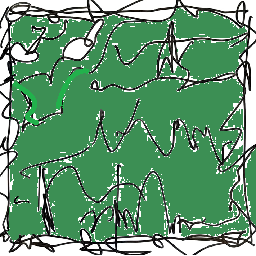
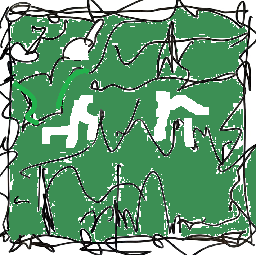
Dev20240711_RSV_setup_stage_2

Changed region(s): [[0.5938, 0.3438, 0.8125, 0.5938], [0.1562, 0.3438, 0.4062, 0.5938], [0.2812, 0.1562, 0.3438, 0.25]]

diff --git a/differenceEngine/resembleStarValley/renderStuff.py b/differenceEngine/resembleStarValley/renderStuff.py
@@ -1,0 +1,145 @@
+import pyglet
+from pyglet.gl import GL_ONE_MINUS_SRC_ALPHA, GL_SRC_ALPHA
+import entiti
+import os
+
+artAssetsFolder = "artAssets/"
+
+
+class assetsManager(entiti.entiti):
+    def __init__(self, **karg) -> None:
+        super().__init__(**karg)
+        filenames: list[str] = os.listdir(self.folder)
+        for itm in filenames:
+            print(itm.split(".")[0])
+            setattr(
+                self,
+                itm.split(".")[0],
+                pyglet.resource.image("artAssets/" + itm),
+            )
+
+
+mainAssets = assetsManager(folder=artAssetsFolder)
+
+
+class blobWindow(pyglet.window.Window):
+    def __init__(
+        self, tileSize: int = 256, name: str = "default_blobWindow", *args, **kwargs
+    ):
+        super().__init__(*args, **kwargs)
+        self.tileSize = tileSize
+        self.name: str = name
+        self.anchor: pyglet.math.Vec3 = pyglet.math.Vec3(0, 0, 0)
+        self.anchorVelocity: pyglet.math.Vec3 = pyglet.math.Vec3(0, 0, 0)
+        self.set_icon(mainAssets.RSV_GRASS_YELLO_PIX)
+        self.set_vsync(True)
+        pyglet.clock.schedule_interval(
+            self.update, 1 / 60
+        )  # set the update function to be called 60times/second
+        pyglet.gl.glClearColor(0.35, 0.4, 0.65, 0.5)  # set window clear color
+        self.fpsDisplay: pyglet.window.FPSDisplay = pyglet.window.FPSDisplay(
+            window=self,
+            color=(0, 0, 0, 128),
+        )  # set a fpsdisplay
+        n = 2
+        self.view = self.view.translate(
+            (-self.width * (n - 1) / 2, -self.height * (n - 1) / 2, 0)
+        )
+        self.view = self.view.scale((n, n, 1))
+        # self.view = self.view.translate((+self.width / 2, +self.height / 2, 0))
+        self.blob: entiti.blob = entiti.blob(self.name, size=(20, 30))
+        self.spriteDict: dict[str, pyglet.sprite.Sprite] = {}
+        self.tilemapBatch: pyglet.graphics.Batch = pyglet.graphics.Batch()
+        self.tileSize *= 1
+        for k, v in self.blob.tileMap.items():
+            pos: tuple[int, int] = k.split("_")[-1]
+            self.spriteDict["sprite_" + pos] = pyglet.sprite.Sprite(
+                img=getattr(mainAssets, v.tiletype), batch=self.tilemapBatch
+            )
+            self.spriteDict["sprite_" + pos].position = tuple(
+                pyglet.math.Vec3(
+                    v.position[0] * self.tileSize,
+                    v.position[1] * self.tileSize,
+                    v.position[2] * self.tileSize,
+                )
+                + self.anchor
+            )
+
+    def update(self, dt: float) -> None:
+        self.anchor += self.anchorVelocity * dt
+        for sprite in self.spriteDict.values():
+            position: pyglet.math.Vec3 = pyglet.math.Vec3(*sprite.position)
+            # print(position + (self.anchorVelocity * dt))
+            sprite.position = tuple(position + (self.anchorVelocity * dt))
+
+    def on_draw(self) -> None:
+        self.clear()
+        pyglet.gl.glEnable(pyglet.gl.GL_DEPTH_TEST)
+        # pyglet.gl.glEnable(pyglet.gl.GL_TEXTURE_2D)
+        pyglet.gl.glTexParameteri(
+            pyglet.gl.GL_TEXTURE_2D,
+            pyglet.gl.GL_TEXTURE_MAG_FILTER,
+            pyglet.gl.GL_NEAREST,
+        )
+        pyglet.gl.glTexParameteri(
+            pyglet.gl.GL_TEXTURE_2D,
+            pyglet.gl.GL_TEXTURE_MIN_FILTER,
+            pyglet.gl.GL_NEAREST,
+        )
+        self.tilemapBatch.draw()
+        self.fpsDisplay.draw()
+
+    def on_key_press(self, symbol, modifiers):
+        print(symbol, modifiers, pyglet.window.key.A)
+        if symbol == pyglet.window.key.A:
+            self.anchorVelocity.x += 4 * self.tileSize
+        if symbol == pyglet.window.key.D:
+            self.anchorVelocity.x += -4 * self.tileSize
+        if symbol == pyglet.window.key.S:
+            self.anchorVelocity.y += 4 * self.tileSize
+        if symbol == pyglet.window.key.W:
+            self.anchorVelocity.y += -4 * self.tileSize
+        if (
+            symbol == pyglet.window.key.LSHIFT
+            or symbol == pyglet.window.key.RSHIFT
+            or symbol == pyglet.window.key.SPACE
+        ):
+            print("sldfj")
+            self.anchorVelocity.y /= 2
+            self.anchorVelocity.x /= 2
+        print(self.anchorVelocity)
+        return super().on_key_press(symbol, modifiers)
+
+    def on_key_release(self, symbol, modifiers):
+        print(symbol, modifiers, pyglet.window.key.A)
+        if symbol == pyglet.window.key.A:
+            self.anchorVelocity.x = 0
+        if symbol == pyglet.window.key.D:
+            self.anchorVelocity.x = 0
+        if symbol == pyglet.window.key.S:
+            self.anchorVelocity.y = 0
+        if symbol == pyglet.window.key.W:
+            self.anchorVelocity.y = 0
+        if (
+            symbol == pyglet.window.key.LSHIFT
+            or symbol == pyglet.window.key.RSHIFT
+            or symbol == pyglet.window.key.SPACE
+        ):
+            self.anchorVelocity.y *= 2
+            self.anchorVelocity.x *= 2
+        print(self.anchorVelocity)
+
+
+class droneRender(pyglet.sprite.Sprite):
+    def __init__(self, window: blobWindow, img: pyglet.image.TextureRegion, **karg):
+        self.window: blobWindow = window
+        self.velocity = (0, 0, 0)
+        super().__init__(img=img, batch=window.tilemapBatch, **karg)
+        self.position = (
+            self.window.width / 2,
+            self.window.height / 2,
+            1 * self.window.tileSize,
+        )
+
+    def update(self, dt: float):
+        pass

diff --git a/differenceEngine/resembleStarValley/entiti.py b/differenceEngine/resembleStarValley/entiti.py
@@ -1,6 +1,7 @@
 # basic entities in game
 import pickle
 import os
+import random
 
 gameDir: str = "gameData/"
 
@@ -44,20 +45,34 @@ class blob(entiti):  # the space blob
         self.name: str = name
         self.size: tuple[int, int] = size  # the space blob-tours size
         self.tileMap: dict[str, tyle] = {}  # the actuall tilemap data of the 20*30
-        # create the game storage folder
-        if not os.path.exists(gameDir):
+        # read the tileMap data
+        if not os.path.exists(gameDir):  # if there is no gameDir directory then create
             os.makedirs(gameDir)
             print(f"The directory {gameDir} has been created.")
         else:
             print(f"The directory {gameDir} already exists.")
             print(f"Loading tileMap.")
-            if not os.path.exists(gameDir + self.name + ".pkl"):
-                # wirte into pkl file
+            if not os.path.exists(
+                gameDir + self.name + ".pkl"
+            ):  # if there is no data before then create.
+                print(f"no data of blob name:{self.name}.")
+                for i in range(self.size[0]):
+                    for j in range(self.size[1]):
+                        self.tileMap[f"loc_({i},{j})"] = tyle(
+                            name=f"earth_at_loc_({i},{j})",
+                            position=(i, j, 0),
+                            status="rest",
+                            possess="air",
+                            tiletype="RSV_GRASS_YELLO_PIX",
+                        )
+                        if random.randint(0, 1) == 0:
+                            self.tileMap[f"loc_({i},{j})"].tiletype = (
+                                "RSV_GRASS_GREEN_PIX"
+                            )
                 with open(gameDir + self.name + ".pkl", "wb") as file:
                     pickle.dump(self.tileMap, file)
-                print("game data created.")
-            else:
-                # read pkl
+                print(f"data of blob name:{self.name} created.")
+            else:  # if there is data before then read.
                 with open(gameDir + self.name + ".pkl", "rb") as file:
                     self.tileMap = pickle.load(file)
                 print("game data loaded.")
@@ -91,4 +106,4 @@ if __name__ == "__main__":
         if cmd.startswith("create_blob"):
             name = cmd.split("_")[-1]
             newBlob = blob(name=name, size=(10, 20))
-            print(name)
+            print(name, newBlob)

diff --git a/differenceEngine/resembleStarValley/index.py b/differenceEngine/resembleStarValley/index.py
@@ -1,3 +1,19 @@
 # main game start programm file
-import entiti
+import pyglet.event
+import renderStuff
 import pyglet
+
+if __name__ == "__main__":
+    firstBlob = renderStuff.blobWindow(tileSize=16, name="mainLandAnich", caption="sdf")
+    mainPlayerDrone = renderStuff.droneRender(
+        window=firstBlob,
+        img=renderStuff.mainAssets.RSV_FOUR_COLOR_DRONE_PIX,
+    )
+
+    # # @firstBlob.event
+    # # def on_key_press(symbol, modifiers):
+    # #     if symbol == pyglet.window.key.D:
+    # #         # print("sldkfj")
+    # #         mainPlayerDrone.x += 1.0
+
+    pyglet.app.run(0)
